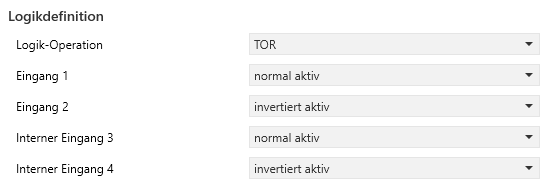
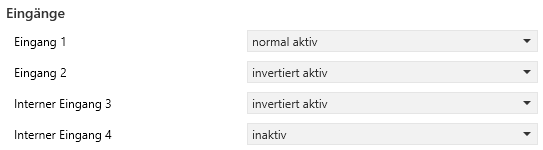
Removed all horizontal ruler and docu update

diff --git a/doc/Applikationsbeschreibung-Logik.md b/doc/Applikationsbeschreibung-Logik.md
@@ -50,7 +50,7 @@ Eine Übersicht über die verfügbaren Konfigurationsseiten und Links zur jeweil
     * [Feiertage](#feiertage)
   * [**+ Logik n: ...** (n=1 bis 99)](#logik-n)
     * [Kanaldefinition](#kanaldefinition)
-    * [Logikdefinition](#logikdefinition)
+    * [Eingänge](#eingänge)
     * [Logikauswertung](#logikauswertung)
     * [Tordefinition](#tordefinition)
     * [Logik-Trigger](#logik-trigger)
@@ -947,36 +947,6 @@ Hier werden die Einstellungen vorgenommen, die für die Funktion des gesamten Ka
 Der hier vergebene Name hat keinen funktionalen Einfluss, erlaubt es aber, dem Kanal einen eigenen Namen zu geben, und ihn so leichter wiederzufinden. Der Name wird im Kanalbaum dargestellt und statt des Standardtextes "..." genommen.
 
 <!-- DOC -->
-### **Zeit bis der Kanal nach einem Neustart aktiv wird**
-
-Neben "Allgemeine Parameter -> Zeit bis das Gerät nach einem Neustart aktiv wird" kann auch noch pro Kanal eine Startverzögerung sinnvoll sein. 
-
-<!-- DOC Skip="1" -->
-Der Grund ist in "Logikkanäle -> [Startverhalten](#startverhalten)" beschrieben.
-
-Die Verzögerungszeit wird hier angegeben.
-
-**Anmerkung:** Auch wenn man hier technisch bis zu 16.000 Stunden Verzögerung angeben kann, sind nur Einstellungen im Sekundenbereich sinnvoll.
-
-<!-- DOC -->
-### **Suspendiert**
-
-Dieser Logikkanal ist ohne Funktion. Er kann vollständig definiert sein und keine Einstellung geht verloren, aber der Ausgang wird kein Telegramm senden. Dies bietet die Möglichkeit, zu Testzwecken einen bereits parametrierten Logikkanal su suspendieren, um zu schauen, ob er die Ursache für eventuelles Fehlverhalten im Haus ist. Kann zur Fehlersuche hilfreich sein.
-
-<!-- DOC -->
-### **Kommentar**
-
-Hier kann man einen Freitext eingeben, der die Logik beschreibt. Dieser Text kann mehrzeilig sein. Leider unterstützt die ETS von sich aus keine mehrzeiligen Texte. Mit dem Button unter der Textbox kann man alle Eingaben der Zeichenfolge '\n' in neue Zeilen umwandeln lassen. 
-
-Ein Kommentar kann aus maximal 512 Zeichen bestehen.
-
-## Logikdefinition
-
-Hier werden die Einstellungen vorgenommen, die für die Logikausführung selbst wesentlich sind.
-
-<kbd>![Logikdefinition](pics/Logikdefinition.png)</kbd>
-
-<!-- DOC -->
 ### **Logik-Operation**
 
 Mittels der Auswahlliste kann eine Operation und damit die Art der Verknüpfung der Eingänge dieses Logikkanals ausgewählt werden. Es stehen folgende Operationen zur Verfügung:
@@ -1021,6 +991,36 @@ Dieser Logikkanal hat den Eingang 1, der bei einem EIN-Signal den Ausgang EINsch
 Mit dem Schalter lassen sich viele Funktionen, die vorher nur mit 2 Kanälen zu lösen waren, jetzt mit nur einem Kanal lösen, was die Übersichtlichkeit der Logiken erhöht. 
 
 Der Schalter ermöglicht die Realisierung eines einfachen Szenen-Controllers (siehe Beispiele). Ferner können damit Hysterese-Logiken aufgebaut werden, bei denen die Ein- und Ausschaltbedingung aus 2 verschiedenen Quellen kommt (z.B. verschiedene DPT).
+
+<!-- DOC -->
+### **Zeit bis der Kanal nach einem Neustart aktiv wird**
+
+Neben "Allgemeine Parameter -> Zeit bis das Gerät nach einem Neustart aktiv wird" kann auch noch pro Kanal eine Startverzögerung sinnvoll sein. 
+
+<!-- DOC Skip="1" -->
+Der Grund ist in "Logikkanäle -> [Startverhalten](#startverhalten)" beschrieben.
+
+Die Verzögerungszeit wird hier angegeben.
+
+**Anmerkung:** Auch wenn man hier technisch bis zu 16.000 Stunden Verzögerung angeben kann, sind nur Einstellungen im Sekundenbereich sinnvoll.
+
+<!-- DOC -->
+### **Suspendiert**
+
+Dieser Logikkanal ist ohne Funktion. Er kann vollständig definiert sein und keine Einstellung geht verloren, aber der Ausgang wird kein Telegramm senden. Dies bietet die Möglichkeit, zu Testzwecken einen bereits parametrierten Logikkanal su suspendieren, um zu schauen, ob er die Ursache für eventuelles Fehlverhalten im Haus ist. Kann zur Fehlersuche hilfreich sein.
+
+<!-- DOC -->
+### **Kommentar**
+
+Hier kann man einen Freitext eingeben, der die Logik beschreibt. Dieser Text kann mehrzeilig sein. Leider unterstützt die ETS von sich aus keine mehrzeiligen Texte. Mit dem Button unter der Textbox kann man alle Eingaben der Zeichenfolge '\n' in neue Zeilen umwandeln lassen. 
+
+Ein Kommentar kann aus maximal 512 Zeichen bestehen.
+
+## Eingänge
+
+Hier wird bestimmt, welche Eingänge aktiv sind und ob der Wert des Eingangs invertiert werden soll.
+
+<kbd>![Logikdefinition](pics/Logikdefinition.png)</kbd>
 
 <!-- DOC HelpContext="Eingang n" -->
 ### **Eingang 1/2**
